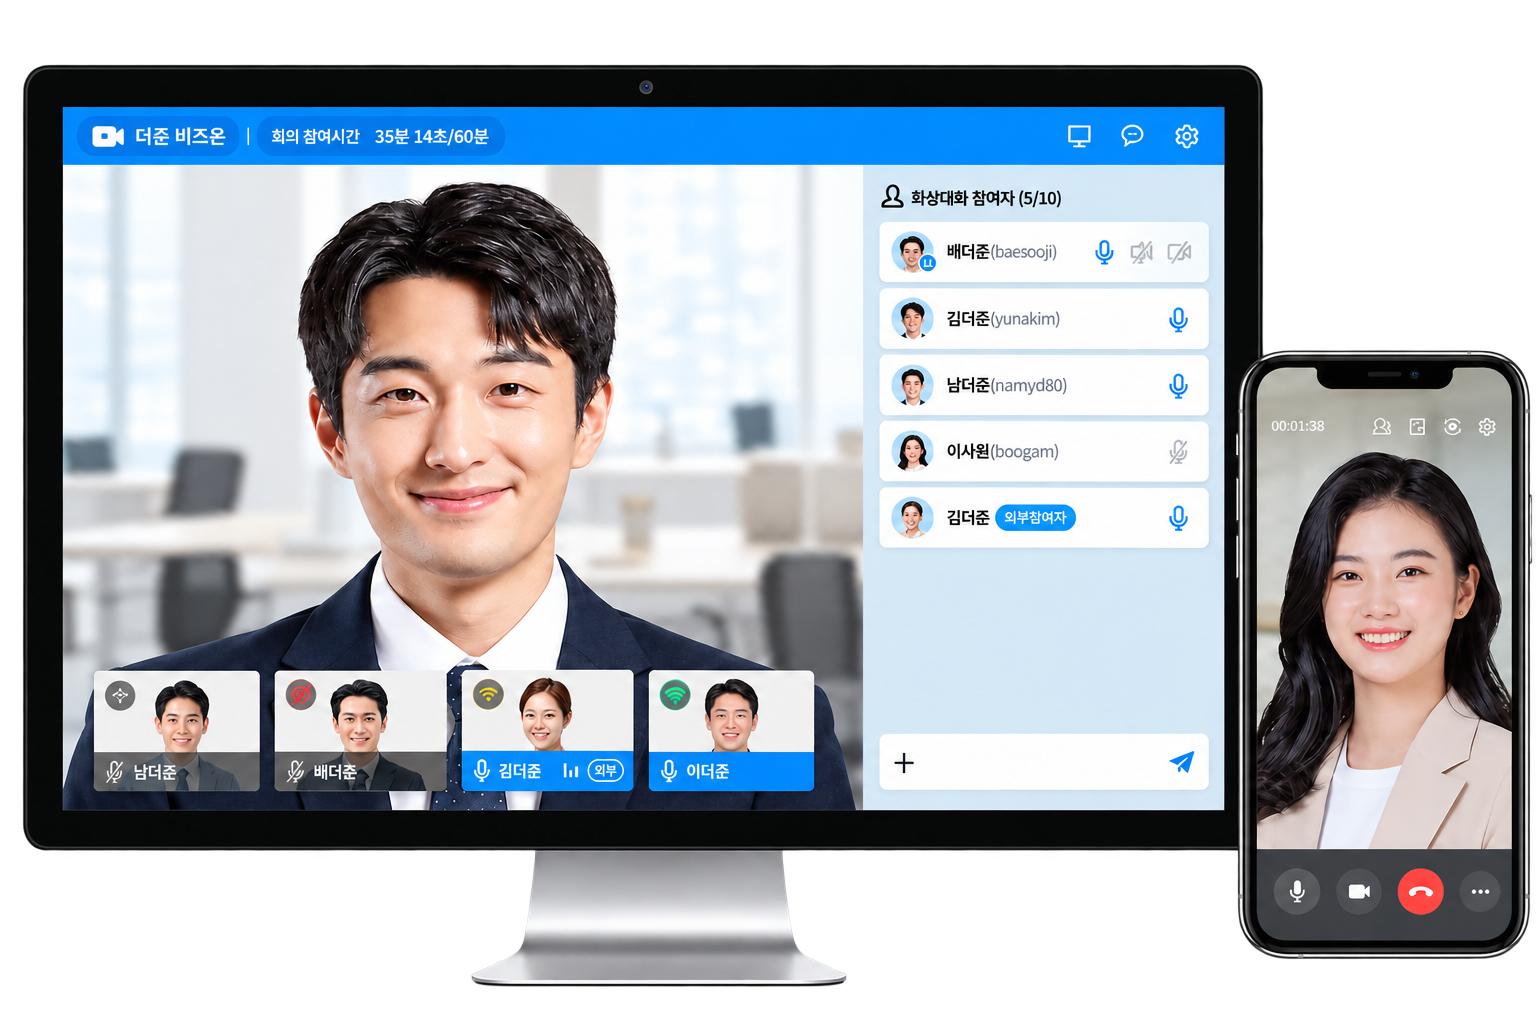
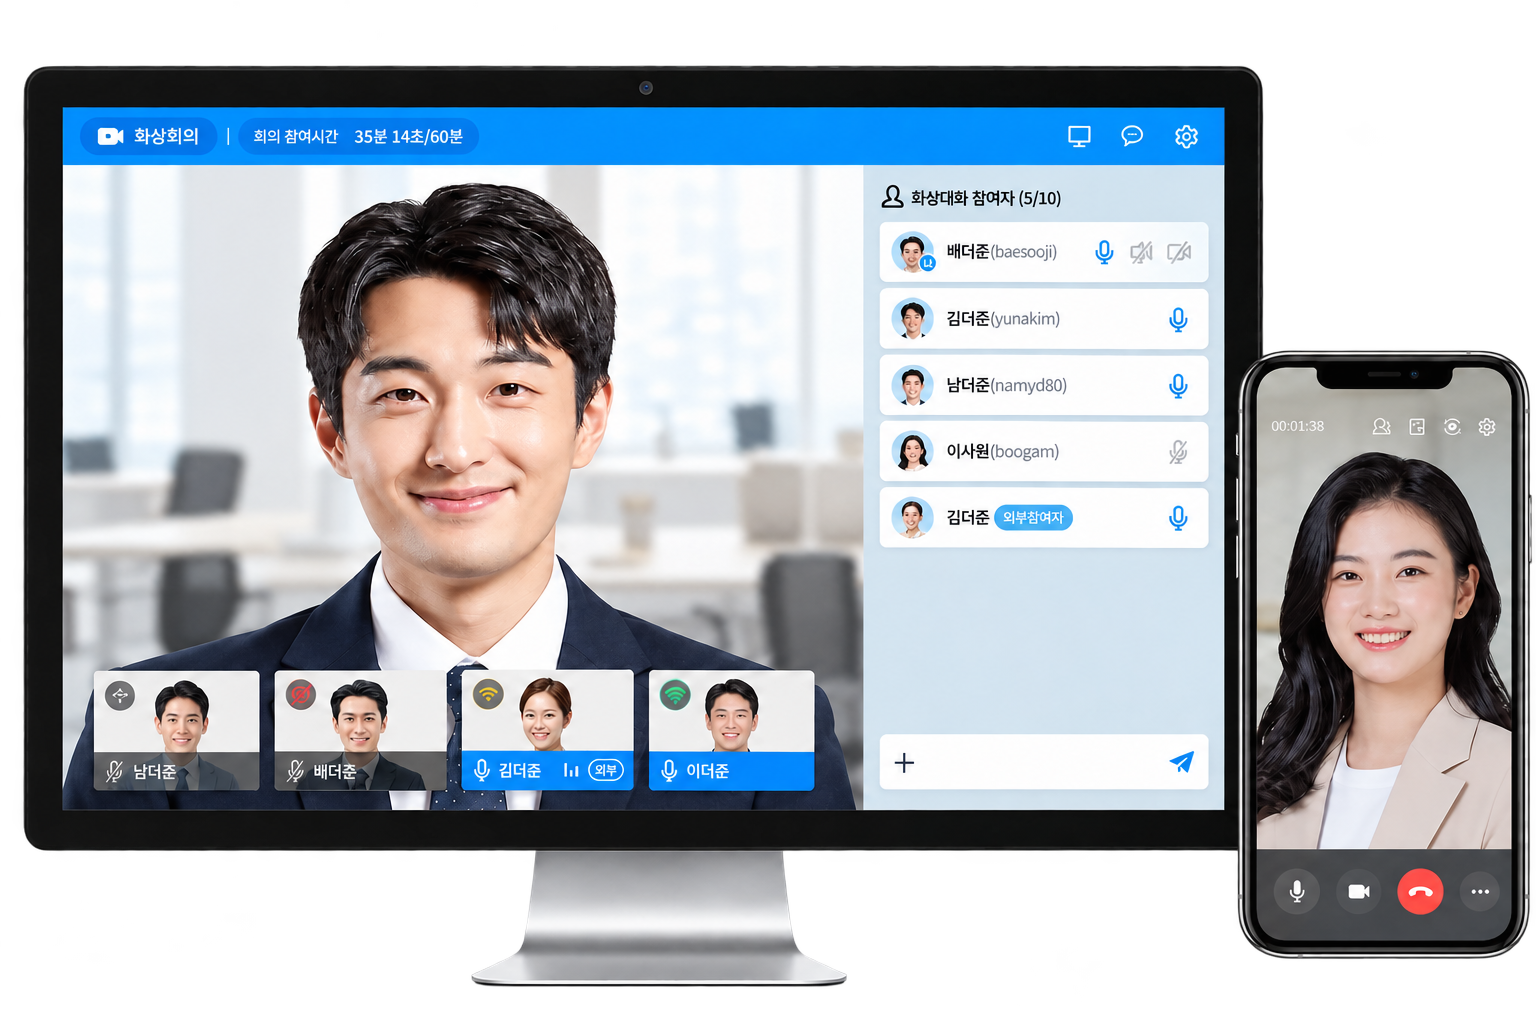
Fix board illustration transparency and reliable smooth top scrolling

diff --git a/app.js b/app.js
@@ -7,9 +7,26 @@
   topButton.className = 'sb-back-to-top';
   topButton.setAttribute('aria-label', '페이지 맨 위로 이동');
   topButton.innerHTML = '<span aria-hidden="true">↑</span>TOP';
+  let topScrollFrame = 0;
+  const cancelTopScroll = () => cancelAnimationFrame(topScrollFrame);
+  window.addEventListener('wheel', cancelTopScroll, {passive: true});
+  window.addEventListener('touchstart', cancelTopScroll, {passive: true});
+  window.addEventListener('pointerdown', cancelTopScroll, {passive: true});
+  window.addEventListener('keydown', cancelTopScroll);
   topButton.addEventListener('click', () => {
+    cancelTopScroll();
     window.dispatchEvent(new Event('sb:back-to-top'));
-    window.scrollTo({top: 0, left: 0, behavior: matchMedia('(prefers-reduced-motion: reduce)').matches ? 'instant' : 'smooth'});
+    if (matchMedia('(prefers-reduced-motion: reduce)').matches) {
+      window.scrollTo({top: 0, left: 0, behavior: 'instant'});
+      return;
+    }
+    const from = window.scrollY, start = performance.now();
+    const tick = now => {
+      const progress = Math.min(1, (now - start) / 850);
+      window.scrollTo({top: from * Math.pow(1 - progress, 3), left: 0, behavior: 'instant'});
+      if (progress < 1) topScrollFrame = requestAnimationFrame(tick);
+    };
+    topScrollFrame = requestAnimationFrame(tick);
   });
   root.append(topButton);
 
